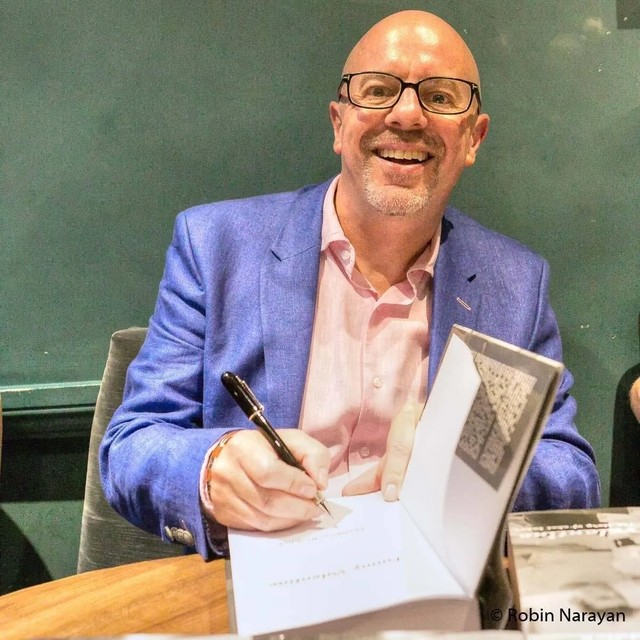
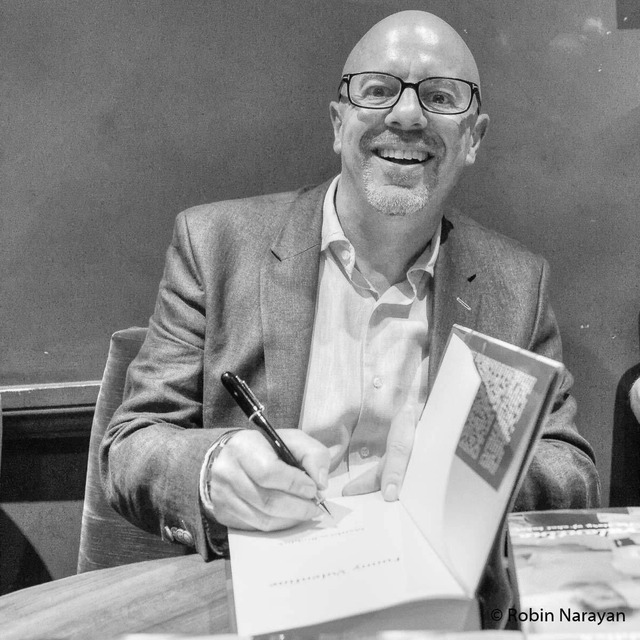
Headshot upgrades, no people-colour hover, trim site, audience strategy
Better Ruddick/Bolleman/Wigt stills; city tiles keep colour on hover;
drop LGL trailer embed and second video embed; add who-watches
section for private strategy.

diff --git a/index.html b/index.html
@@ -228,45 +228,15 @@
     </section>
 
     <section class="section" id="counterpart">
-      <div class="section__inner counterpart">
-        <figure class="counterpart__poster">
-          <img
-            src="assets/images/lets-get-lost-poster.jpg"
-            alt="Theatrical poster for Let's Get Lost"
-            width="246"
-            height="300"
-            loading="lazy"
-          >
-        </figure>
-        <div class="prose">
-          <p class="section__label">The counterpart</p>
-          <h2><a href="https://en.wikipedia.org/wiki/Let%27s_Get_Lost_(1988_film)" rel="noopener">Let’s Get Lost</a>, 1988</h2>
-          <p class="lede">
-            Written and directed by <a href="https://en.wikipedia.org/wiki/Bruce_Weber_(photographer)" rel="noopener">Bruce Weber</a>. Music by <a href="https://en.wikipedia.org/wiki/Chet_Baker" rel="noopener">Chet Baker</a>. Shot by <a href="https://en.wikipedia.org/wiki/Jeff_Preiss" rel="noopener">Jeff Preiss</a>. About two hours of black and white improvisation around a man already halfway into legend.
-          </p>
-          <p>
-            Weber follows Baker near the end: Santa Monica light, Cannes nights, old associates, lovers, children, and the face that still held the 1950s inside a harder present. The film was nominated for an <a href="https://en.wikipedia.org/wiki/Academy_Award_for_Best_Documentary_Feature_Film" rel="noopener">Academy Award for Best Documentary Feature</a>. Restored prints still play in cinemas that care about jazz and about how star quality is made.
-          </p>
-          <p>
-            <a href="#top"><strong>Chasing Chet</strong></a> is not a remake and not a correction of Weber’s film. It is the other half of the map: Europe, the collaborators still here, and the albums that argue the years were not empty.
-          </p>
-          <p class="hidden-legal">
-            Poster used for reference only. © Little Bear Films / rights holders. Not affiliated with this production.
-          </p>
-        </div>
-      </div>
-
-      <div class="section__inner">
-        <div class="video-shell">
-          <iframe
-            src="https://www.youtube-nocookie.com/embed/EzpgO-kMrIc"
-            title="Let's Get Lost trailer"
-            allow="accelerometer; autoplay; clipboard-write; encrypted-media; gyroscope; picture-in-picture; web-share"
-            allowfullscreen
-            loading="lazy"
-          ></iframe>
-        </div>
-        <p class="video-note">Trailer for <a href="https://en.wikipedia.org/wiki/Bruce_Weber_(photographer)" rel="noopener">Bruce Weber</a>’s <a href="https://en.wikipedia.org/wiki/Let%27s_Get_Lost_(1988_film)" rel="noopener">Let’s Get Lost</a>. External video. Rights remain with the film’s owners.</p>
+      <div class="section__inner prose" style="max-width:var(--measure)">
+        <p class="section__label">The counterpart</p>
+        <h2><a href="https://en.wikipedia.org/wiki/Let%27s_Get_Lost_(1988_film)" rel="noopener">Let’s Get Lost</a>, 1988</h2>
+        <p class="lede">
+          <a href="https://en.wikipedia.org/wiki/Bruce_Weber_(photographer)" rel="noopener">Bruce Weber</a>’s film fixed the American myth of <a href="https://en.wikipedia.org/wiki/Chet_Baker" rel="noopener">Chet Baker</a>. <a href="#top"><strong>Chasing Chet</strong></a> is the other half of the map: Europe, the people still here, the albums that argue those years were not empty.
+        </p>
+        <p class="hidden-legal">
+          Reference only. Not affiliated with Little Bear Films or the rights holders of Let’s Get Lost.
+        </p>
       </div>
     </section>
 
@@ -515,16 +485,9 @@
           </figure>
         </div>
 
-        <div class="video-shell" style="margin-top:2.5rem">
-          <iframe
-            src="https://www.youtube-nocookie.com/embed/8jZywakhwQk"
-            title="Robin Phillips Sings and Plays Chet Baker featuring James Brady"
-            allow="accelerometer; autoplay; clipboard-write; encrypted-media; gyroscope; picture-in-picture; web-share"
-            allowfullscreen
-            loading="lazy"
-          ></iframe>
-        </div>
-        <p class="video-note"><a href="https://www.youtube.com/watch?v=8jZywakhwQk" rel="noopener">Robin Phillips Sings &amp; Plays: Chet Baker</a>, featuring James Brady. <a href="https://www.repmusic.co.uk/" rel="noopener">repmusic</a>.</p>
+        <p class="video-note" style="margin-top:1.5rem">
+          <a href="https://www.youtube.com/watch?v=8jZywakhwQk" rel="noopener">Robin Phillips Sings &amp; Plays: Chet Baker</a>, featuring James Brady · <a href="https://www.repmusic.co.uk/" rel="noopener">repmusic</a>
+        </p>
       </div>
     </section>
 

diff --git a/assets/css/styles.css b/assets/css/styles.css
@@ -498,7 +498,7 @@ a strong {
 
 .city:hover .city__img img {
   transform: scale(1.03);
-  filter: grayscale(1) brightness(0.9) contrast(1.05);
+  filter: grayscale(0.25) brightness(0.95) contrast(1.05);
 }
 
 .city__body {
@@ -574,8 +574,7 @@ a strong {
 }
 
 .voice:hover .voice__photo img {
-  filter: grayscale(1) contrast(1.08);
-  transition: filter 0.35s ease;
+  filter: grayscale(1) contrast(1.04);
 }
 
 .voice__text {

diff --git a/STRATEGY_AUDIENCE.md b/STRATEGY_AUDIENCE.md
@@ -1,0 +1,92 @@
+# STRATEGY add-on: Who will watch (hypotheses)
+
+Private note for Seb. Paste into **STRATEGY - Chasing Chet** (the untamed private doc).  
+Not for the shared production folder. Updated 2026-07-21.
+
+Honest starting point: we do not know yet. The film is not shot. What follows is who *could* watch, so website, ads, and Robin conversations stay aimed at real people rather than "everyone who likes jazz."
+
+---
+
+## 1. Primary: people already in the music
+
+| Who | Why they watch | What they want |
+|-----|----------------|----------------|
+| UK / EU jazz listeners (clubs, festivals, Radio 3 / Jazz FM types) | Chet is still a live name on bandstands | Story + music, not celebrity gossip |
+| Robin's existing audience (gigs, repmusic list, Cambridge/London circuit) | Trust the messenger; many already saw the Chet show with James | Behind the trip, proof the Europe story is real |
+| Chet heads who know *Let's Get Lost* | They want the half Weber did not finish | Europe, late albums, collaborators still alive |
+| Musicians / students of the trumpet book | Catalog as craft | Top 30, places, how the records were made |
+
+These are the people most likely to **finish** a 75-90 min film or a screening with a live set after.
+
+---
+
+## 2. Secondary: story over genre
+
+| Who | Why they watch | Risk |
+|-----|----------------|------|
+| Viewers of music docs (*Ronnie's*, *Blue Note*, In-Edit crowd) | Format-ready | Expect polish and clear music |
+| European culture / ARTE-ish audience | Europe-made film about European Chet | Gatekeepers, not YouTube first |
+| People drawn to addiction + art without wanting a lecture | Sally Marlow lane; Baker's choices | Easy to get moralising or lurid |
+| Families of the interviewees / local scenes (Rome, Brussels, NL) | Their person is in it | Small numbers, high loyalty |
+
+---
+
+## 3. Gatekeepers (not "fans," but they decide who else watches)
+
+- Music-doc festivals: In-Edit, Doc'n Roll, Sheffield DocFest, IDFA music strands  
+- Broadcasters: ARTE, Sky Arts, NPO, RAI (realistic ceiling from strategy)  
+- Jazz venues and festivals that book film + live sets  
+
+Treat these as a **distribution audience**. The public site should not sound like a festival application, but the material we shoot must satisfy them later.
+
+---
+
+## 4. Who is not the audience (do not build the site for them)
+
+- Netflix / streamer "next true crime" crowds  
+- People who only want the 1950s pretty Chet and no Europe argument  
+- General "jazz is background coffee" playlists with no interest in story  
+- Anyone who needs a trailer of *this* film before they click (we do not have one yet)
+
+---
+
+## 5. How each product finds them
+
+| Product | Best audience | When |
+|---------|---------------|------|
+| Feature | Festival + screening + later broadcast/self | After edit; premiere rules |
+| Top 30 series | Chet heads + Robin's channel | From autumn; discovery engine |
+| Trip shorts (Green tier only) | Casual social; list signups | During/after trip |
+| Event screening + live set | Robin's real strength: local + venue | Path B |
+
+Mailing list is the only asset that serves all of these.
+
+---
+
+## 6. Website implications (for the public page)
+
+Target visitor on first load:
+
+1. Chet-curious or *Let's Get Lost* viewer who wants the Europe half  
+2. Someone who already follows Robin / the Chet show  
+3. Press / interviewee checking the project is real  
+
+Not: festival programmer (they get a deck later), not Ads tourist promised a stream.
+
+**Too much on the site?** Yes, slightly. The long *Let's Get Lost* block and dual YouTube embeds compete with our own film. Trim to: thesis, short counterpart line, journey, voices, music, credits, email. One outbound video link is enough until we have our own trailer.
+
+**Google Ads later (if any):** target jazz + Chet + music documentary keywords and geo (UK + NL + BE + IT + FR). Landing page must match the ad promise. Do not buy "Chet Baker documentary watch free" until there is something to watch.
+
+---
+
+## 7. One sentence for Robin (when useful)
+
+"Most people who will care already care about Chet or about you. The job of the website and the Top 30 is to gather them early. The film is for them, then for festivals and rooms where you play after."
+
+---
+
+## 8. Open
+
+- Confirm with Robin who he thinks the film is for (he may only say "people who love Chet").  
+- After first assembly, revisit this section with real footage in mind.  
+- Do not invent a mass audience to justify spend.